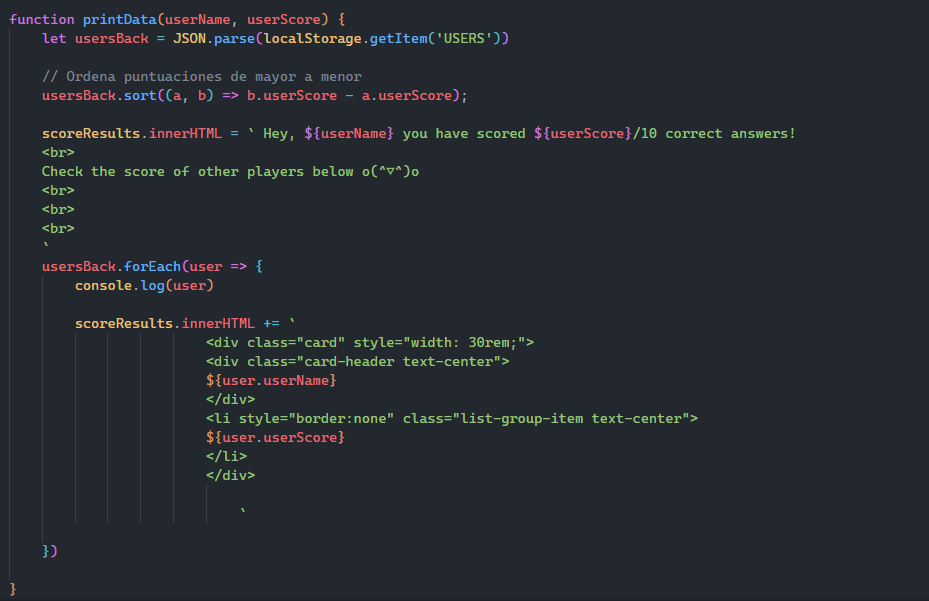
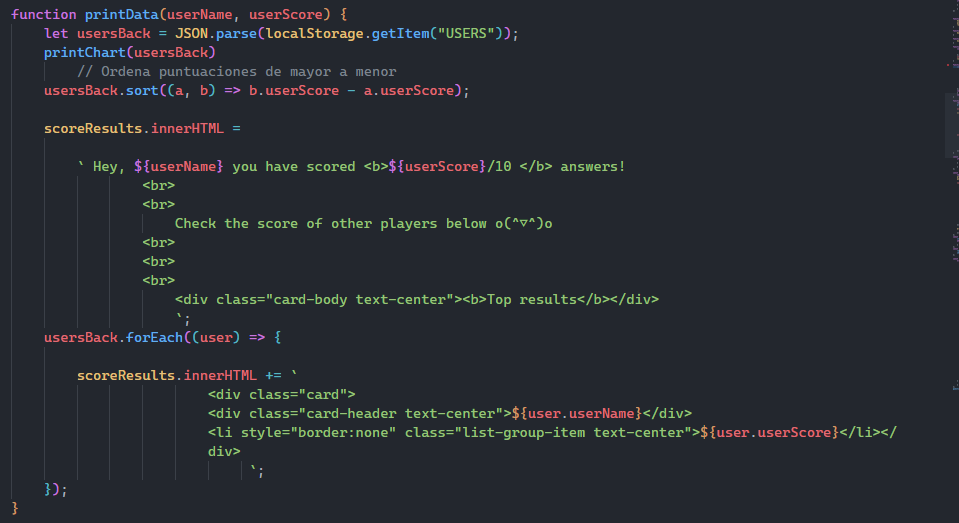
readme actualizado

diff --git a/main.js b/main.js
@@ -62,8 +62,6 @@ function saveData() {
 }
 
 function printChart(users) {
-
-
     const data = {
 
         labels: users.map(user => user.userName),

diff --git a/README.md b/README.md
@@ -148,6 +148,10 @@ Sin embargo, si ya no quedasen más preguntas, lo que hará será:
 * Llamar a la función saveData: ésta crea un objeto con nuestro nobmre de usuario y nuestra puntuación. Posteriormente se hace push sobre el array declarado arriba del archivo js como vacío en caso de que no haya nada en localStorage, y finalmente guarda este array en él.
 ![foto](/Assets/savedata.png) 
 * Llamar a la función printData: en ella primero se declara la variable usersBack que serán los datos recogidos mediante JSON.parse de localStorage.
+* Llama a la función printChart:
+    * ![foto](/Assets/printchart.png)
+    Esta función coge el parámetro users y nos crea la variable data dentro de la cual las labels serán los nombres de usuario y dentro de datasets, la data será la propia puntuación.
+    Con todo esto, anexando la biblioteca de ChartJS, nos pinta una gráfica  de tipo barras en el canvas que tenemos preparada en HTML.
 Después ordena de mayor a menor las puntuaciones de los usuarios y, por último, pinta en el HTML el resultado del último usuario. Posteriormente, recorre el bucle de todos los usuarios anteriores guardados en localStorage y los va pintando dentro de cards.
 * Llamar a la función closeModal, que cerrará nuestro modal además de la función que vimos anteriormente hideView, y por último, haremos visible la sección resultados.
      
@@ -203,6 +207,7 @@ Al trabajar en equipo, tenemos que lidiar con diversas dificultades, como por ej
 
 
 ## Agradecimientos
+En especial a nuestro TA por ayudarnos a varios problemas de asincronías:
 -[Germán](https://github.com/GeerDev)
 
 
